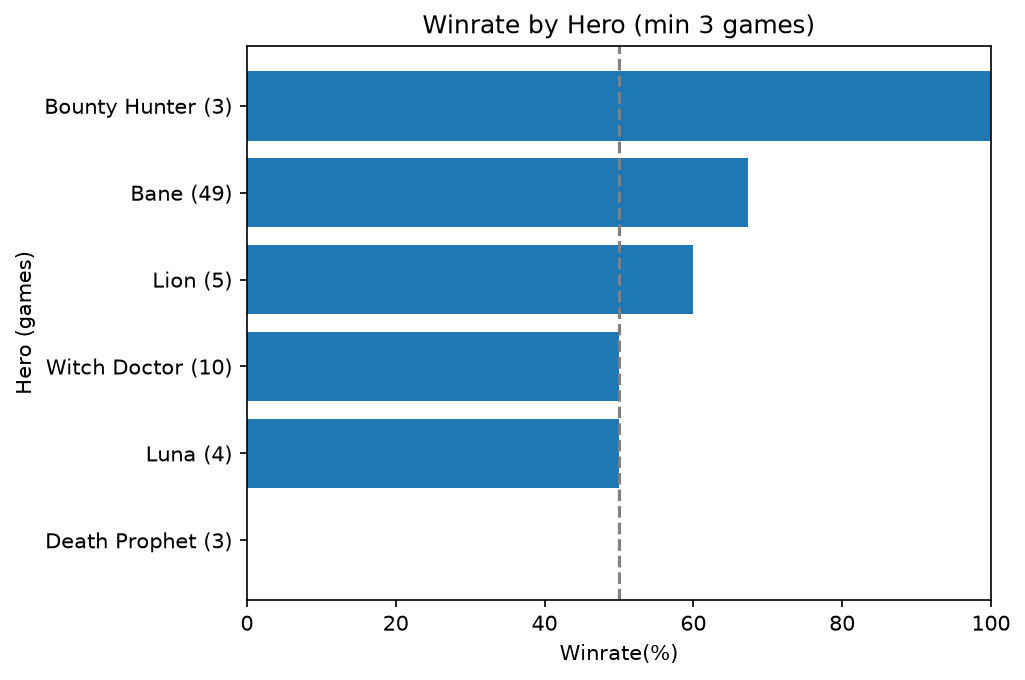
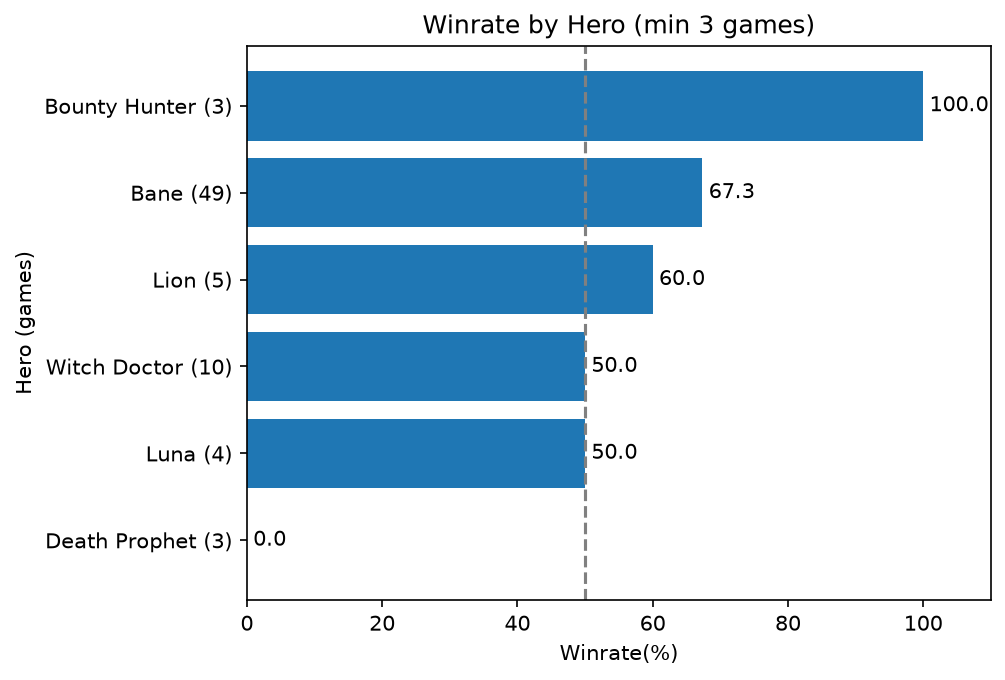
regen pics

diff --git a/charts.py b/charts.py
@@ -16,7 +16,7 @@ def plot_hero_winrate(df):
     ax.set_title("Winrate by Hero (min 3 games)")
     ax.set_xlabel("Winrate(%)")
     ax.set_ylabel("Hero (games)")
-    ax.set_xlim(0, 100)
+    ax.set_xlim(0, 110)
 
     plt.savefig('output/hero_winrate.png', dpi=150, bbox_inches='tight')
     # plt.show()
@@ -46,7 +46,7 @@ def plot_kda(df, max_games=None):
     fig, ax = plt.subplots()
 
     df_plot = df.head(max_games) if max_games else df
-    df_plot = df_plot.iloc[::-1]
+    df_plot = df_plot.iloc[::-1].reset_index(drop=True)
     avg_kda = df_plot.kda.mean()
 
     ax.scatter(df_plot.index+1, df_plot.kda)
